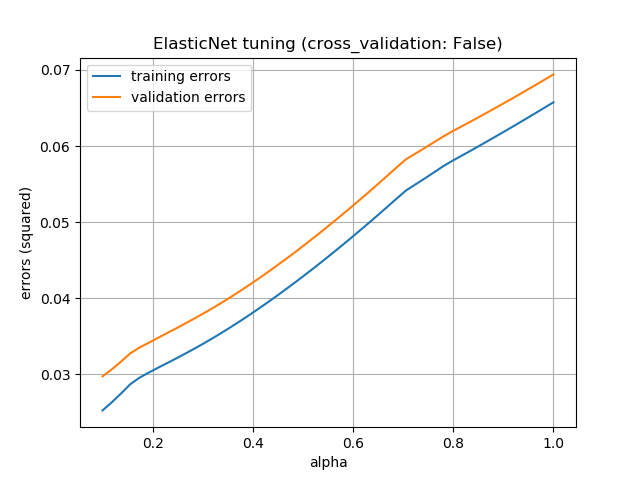
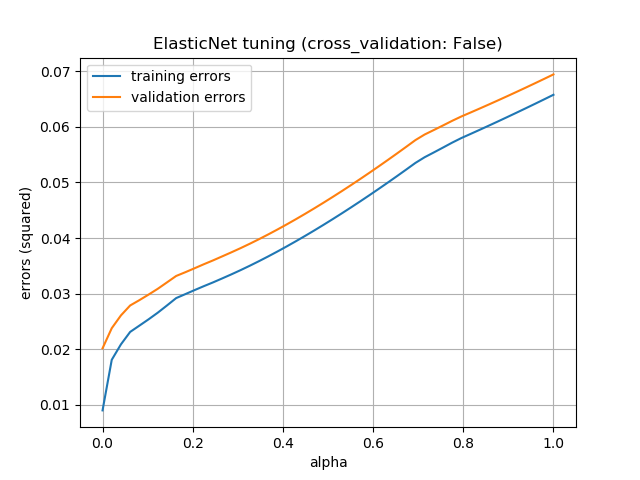
added internal cross validation in stacking implementation

diff --git a/code/main.py b/code/main.py
@@ -18,6 +18,7 @@ from scipy.special import boxcox1p
 from scipy.stats import boxcox_normmax
 
 from sklearn.preprocessing import LabelEncoder
+from sklearn.pipeline import make_pipeline
 
 ##ANOVA
 from sklearn.feature_selection import SelectKBest
@@ -26,7 +27,7 @@ from sklearn import preprocessing
 
 #XGBoost
 from sklearn.model_selection import train_test_split
-from sklearn.preprocessing import Imputer
+from sklearn.preprocessing import Imputer, RobustScaler
 from xgboost import XGBRegressor
 from sklearn.metrics import mean_absolute_error
 
@@ -35,7 +36,7 @@ import torch.nn as nn
 import torch.optim as optim
 
 from sklearn.ensemble import RandomForestRegressor
-from models import NeuralNetRegressor, neuralNetHyperparamTuning, AveragingRegressor, StackingRegressor
+from models import NeuralNetRegressor, neuralNetHyperparamTuning, AveragingRegressor, StackingRegressor, StackingAveragedModels
 import lightgbm as lgb
 
 if __name__ == "__main__":
@@ -487,10 +488,10 @@ if __name__ == "__main__":
 
 
     elif question == "base_models":
+        dataset_name = 'preprocessed'
         # dataset_name = 'sig_features'
-        # dataset_name = 'preprocessed'
         # dataset_name = 'anova_features'
-        dataset_name = 'xgb_features'
+        # dataset_name = 'xgb_features'
 
         # read preprocessed data as pandas dataframe
         df = pd.read_csv('../data/train_{}.csv'.format(dataset_name))
@@ -500,8 +501,8 @@ if __name__ == "__main__":
 
         n, d = np.shape(X)
 
-        err_type = 'rmsle'  # 'abs', 'squared', 'rmsle'
-        cross_val = True 
+        err_type = 'rmse'  # 'abs', 'squared', 'rmsle'
+        cross_val = True
         valid_size = 0.25
         n_splits = 4
         shuffle_data = True
@@ -509,13 +510,22 @@ if __name__ == "__main__":
         ## base models
         # test Lasso model
         print("\nbase model: Lasso (L2-loss with L1-reg)")
-        model = Lasso(alpha=0.5, random_state=2)
+        model = Lasso(alpha=0.0005, random_state=1)
         err_tr, err_va = evaluate_model(model, X, y, cross_val=cross_val, valid_size=valid_size, shuffle_data=shuffle_data, 
                                         n_splits=n_splits, verbose=True, err_type=err_type)
 
+        # # doesn't really make a difference
+        # print("\nLasso robustscaler")
+        # model = make_pipeline(RobustScaler(), Lasso(alpha=0.0005, random_state=1))
+        # err_tr, err_va = evaluate_model(model, X, y, cross_val=cross_val, valid_size=valid_size, shuffle_data=shuffle_data, 
+        #                                 n_splits=n_splits, verbose=True, err_type=err_type)
+
+
         # ElasticNet
         print("\nbase model: ElasticNet (L2-loss with L1-reg and L2-reg)")
-        model = ElasticNet(alpha=0.5, l1_ratio=0.5, random_state=2)
+        # model = ElasticNet(alpha=1e-4, l1_ratio=0.5, random_state=2)
+        model = make_pipeline(RobustScaler(), ElasticNet(alpha=0.0005, l1_ratio=0.9, random_state=3))
+
         err_tr, err_va = evaluate_model(model, X, y, cross_val=cross_val, valid_size=valid_size, shuffle_data=shuffle_data, 
                                         n_splits=n_splits, verbose=True, err_type=err_type)
         # Ridge
@@ -611,10 +621,10 @@ if __name__ == "__main__":
 
 
     elif question == "averaging":
+        dataset_name = 'preprocessed'
         # dataset_name = 'sig_features'
-        # dataset_name = 'preprocessed'
         # dataset_name = 'anova_features'
-        dataset_name = 'xgb_features'
+        # dataset_name = 'xgb_features'
 
         # read preprocessed data as pandas dataframe
         df = pd.read_csv('../data/train_{}.csv'.format(dataset_name))
@@ -623,8 +633,9 @@ if __name__ == "__main__":
         y = df['SalePrice'].values
 
         n, d = np.shape(X)
+        print("num features: {}".format(d))
 
-        err_type = 'rmsle'  # 'abs', 'squared', 'rmsle'
+        err_type = 'rmse'  # 'abs', 'squared', 'rmsle'
         cross_val = True 
         valid_size = 0.25
         n_splits = 4
@@ -649,8 +660,8 @@ if __name__ == "__main__":
                                         n_splits=n_splits, verbose=True, err_type=err_type)
 
     elif question == "stacking":
-        # dataset_name = 'sig_features'
         # dataset_name = 'preprocessed'
+        # dataset_name = 'sig_features'
         # dataset_name = 'anova_features'
         dataset_name = 'xgb_features'
 
@@ -661,16 +672,17 @@ if __name__ == "__main__":
         y = df['SalePrice'].values
 
         n, d = np.shape(X)
+        print("num features: {}".format(d))
 
-        err_type = 'rmsle'  # 'abs', 'squared', 'rmsle'
+        err_type = 'rmse'  # 'abs', 'squared', 'rmsle'
         cross_val = True 
         valid_size = 0.25
         n_splits = 4
         shuffle_data = True
 
         base_models = []
-        base_models.append(Lasso(alpha=0.5, random_state=None))
-        base_models.append(ElasticNet(alpha=0.5, l1_ratio=0.5))
+        base_models.append(Lasso(alpha=0.0005, random_state=None))
+        base_models.append(ElasticNet(alpha=0.0005, l1_ratio=0.9))
         base_models.append(Ridge(alpha=1))
         base_models.append(KNeighborsRegressor(n_neighbors=10))
         base_models.append(lgb.LGBMRegressor(objective='regression', num_leaves=25, learning_rate=0.05))
@@ -681,13 +693,19 @@ if __name__ == "__main__":
         #                             lammy=1e-5, batch_size=32, epochs=100, 
         #                             num_workers=6, verbose=False)
 
-        # meta_model = Lasso(alpha=0.1) 
+        meta_model = Lasso(alpha=1e-4) 
         # meta_model = ElasticNet(alpha=1, l1_ratio=0.5)
-        meta_model = Ridge(alpha=1)
+        # meta_model = Ridge(alpha=1)
 
-        stacking_model = StackingRegressor(base_models, meta_model)
+        stacking_model = StackingRegressor(base_models, meta_model, n_folds=5)
         err_tr, err_va = evaluate_model(stacking_model, X, y, cross_val=cross_val, valid_size=valid_size, shuffle_data=shuffle_data, 
                                         n_splits=n_splits, verbose=True, err_type=err_type)
+
+        # print("Kaggle implementation")
+        # stacking_model = StackingAveragedModels(base_models, meta_model, n_folds=5)
+        # err_tr, err_va = evaluate_model(stacking_model, X, y, cross_val=cross_val, valid_size=valid_size, shuffle_data=shuffle_data, 
+        #                                 n_splits=n_splits, verbose=True, err_type=err_type)
+
 
     elif question == "base_model_tuning":
         # dataset_name = 'sig_features'
@@ -713,7 +731,7 @@ if __name__ == "__main__":
         
         # tunable vars
         # alphas = np.linspace(0.1, 5, num=num_vars)
-        alphas = np.linspace(0.1, 1, num=num_vars)
+        alphas = np.linspace(1e-4, 1, num=num_vars)
         n_neighbors = np.linspace(1, 50, num=num_vars, dtype=int)
         num_leaves = np.linspace(5, 200, num=num_vars, dtype=int)
         max_depths = np.linspace(5, 100, num=num_vars, dtype=int)

diff --git a/code/models.py b/code/models.py
@@ -11,6 +11,10 @@ from utils import evaluate_model
 import matplotlib.pyplot as plt
 import os
 
+from sklearn.base import BaseEstimator, TransformerMixin, RegressorMixin, clone
+from sklearn.model_selection import KFold
+
+
 # use pytorch to implement neural network
 try:
     import torch
@@ -311,7 +315,7 @@ class AveragingRegressor():
 class StackingRegressor():
     """ a simple ensemble stacking class """
 
-    def __init__(self, base_models, meta_model):
+    def __init__(self, base_models, meta_model, n_folds=5):
         """ constructor
         
         Arguments:
@@ -321,6 +325,8 @@ class StackingRegressor():
 
         self.base_models = base_models
         self.meta_model = meta_model
+        self.n_folds = n_folds
+        self.base_model_instances = [[] for _ in base_models]
         
     def fit(self, X_train, y_train):
         """ train stacking regressor
@@ -330,8 +336,7 @@ class StackingRegressor():
             y_train {ndarray} -- y training
         """
 
-        self._base_model_fit(X_train, y_train)
-        Z_train = self._base_model_predict(X_train)
+        Z_train = self._base_model_train(X_train, y_train)
 
         self.meta_model.fit(Z_train, y_train)
 
@@ -350,7 +355,7 @@ class StackingRegressor():
         
         return yhats
 
-    def _base_model_fit(self, X_train, y_train):
+    def _base_model_train(self, X, y):
         """ helper function to train the base models
         
         Arguments:
@@ -358,8 +363,26 @@ class StackingRegressor():
             y_train {ndarray} -- y training
         """
 
-        for model in self.base_models:
-            model.fit(X_train, y_train)
+        n, d = np.shape(X)
+
+        # internal cross validation for training
+        kf = KFold(n_splits=self.n_folds, shuffle=True, random_state=None)
+        Z = np.empty((n, len(self.base_models)))
+
+        for i, model in enumerate(self.base_models, 0):
+            
+            Z_col = np.empty(n)
+            for train_index, valid_index in kf.split(X, y):
+                model_instance = clone(model)
+                model_instance.fit(X[train_index], y[train_index])
+                Z_instance = model_instance.predict(X[valid_index])
+                self.base_model_instances[i].append(model_instance)
+
+                Z_col[valid_index] = Z_instance
+
+            Z[:, i] = Z_col
+
+        return Z
 
     def _base_model_predict(self, X):
         """ helper function to get prediction from base models
@@ -370,9 +393,50 @@ class StackingRegressor():
         Returns:
             {ndarray} -- predictions
         """
+        n, d = np.shape(X)
+        Z = np.empty((n, len(self.base_models)))
+        
+        for i, instances in enumerate(self.base_model_instances, 0):
+            Z_col = np.mean([instance.predict(X) for instance in instances], axis=0)
+            Z[:, i] = Z_col
 
-        Z = np.column_stack([model.predict(X) for model in self.base_models])
         return Z
+
+# Kaggle implementation
+class StackingAveragedModels(BaseEstimator, RegressorMixin, TransformerMixin):
+    def __init__(self, base_models, meta_model, n_folds=5):
+        self.base_models = base_models
+        self.meta_model = meta_model
+        self.n_folds = n_folds
+
+    # We again fit the data on clones of the original models
+    def fit(self, X, y):
+        self.base_models_ = [list() for x in self.base_models]
+        self.meta_model_ = clone(self.meta_model)
+        kfold = KFold(n_splits=self.n_folds, shuffle=True, random_state=156)
+        
+        # Train cloned base models then create out-of-fold predictions
+        # that are needed to train the cloned meta-model
+        out_of_fold_predictions = np.zeros((X.shape[0], len(self.base_models)))
+        for i, model in enumerate(self.base_models):
+            for train_index, holdout_index in kfold.split(X, y):
+                instance = clone(model)
+                self.base_models_[i].append(instance)
+                instance.fit(X[train_index], y[train_index])
+                y_pred = instance.predict(X[holdout_index])
+                out_of_fold_predictions[holdout_index, i] = y_pred
+                
+        # Now train the cloned  meta-model using the out-of-fold predictions as new feature
+        self.meta_model_.fit(out_of_fold_predictions, y)
+        return self
+
+    #Do the predictions of all base models on the test data and use the averaged predictions as 
+    #meta-features for the final prediction which is done by the meta-model
+    def predict(self, X):
+        meta_features = np.column_stack([
+            np.column_stack([model.predict(X) for model in base_models]).mean(axis=1)
+            for base_models in self.base_models_ ])
+        return self.meta_model_.predict(meta_features)
 
 def neuralNetHyperparamTuning(  hyperparam, hyperparam_vals, X, y, 
                                 lr=1e-3, momentum=0.9, lammy=1e-5, batch_size=32, 

diff --git a/code/utils.py b/code/utils.py
@@ -44,7 +44,7 @@ def standardize_dataset(data, data_valid, include_y_int=True):
 
     return X, y, X_valid, y_valid
 
-def evaluate_model(model, X, y, cross_val=False, valid_size=0.1, n_splits=10, shuffle_data=True, random_state=None, verbose=False, err_type='abs'):
+def evaluate_model(model, X, y, cross_val=False, valid_size=0.2, n_splits=5, shuffle_data=True, random_state=None, verbose=False, err_type='rmse'):
     """ Evaluate model by splitting dataset into training and validation 
     sets and report both training and validation errors
     
@@ -105,6 +105,10 @@ def evaluate_model(model, X, y, cross_val=False, valid_size=0.1, n_splits=10, sh
         print("training error: {0:.6g}".format(err_tr))
         print("validation error: {0:.6g}".format(err_va))
 
+    # kf = KFold(n_splits=n_splits, shuffle=shuffle_data).get_n_splits(X)
+    # rmse = np.sqrt(-cross_val_score(model, X, y, scoring='neg_mean_squared_error', cv=kf))
+    # print("rmse mean: {}".format(rmse.mean()))
+
     return err_tr, err_va
 
 def _evaluate(model, X_train, y_train, X_valid=None, y_valid=None, err_type='abs'):
@@ -135,6 +139,8 @@ def _evaluate(model, X_train, y_train, X_valid=None, y_valid=None, err_type='abs
         err_tr = mean_absolute_error(y_train, y_hat)
     elif err_type == 'rmsle':
         err_tr = np.sqrt(mean_squared_log_error(y_train, y_hat))
+    elif err_type == 'rmse':
+        err_tr = np.sqrt(mean_squared_error(y_train, y_hat))
 
     if X_valid is not None and y_valid is not None:
         y_hat = model.predict(X_valid)
@@ -145,7 +151,11 @@ def _evaluate(model, X_train, y_train, X_valid=None, y_valid=None, err_type='abs
             err_va = mean_absolute_error(y_valid, y_hat)
         elif err_type == 'rmsle':
             err_va = np.sqrt(mean_squared_log_error(y_valid, y_hat))
+        elif err_type == 'rmse':
+            err_va = np.sqrt(mean_squared_error(y_valid, y_hat))
     else:
         err_va = None
 
     return err_tr, err_va
+
+

diff --git a/doc/Experiment_result_stacking.md b/doc/Experiment_result_stacking.md
@@ -1,0 +1,43 @@
+#
+## preprocessed
+```python
+training error: 0.0942197
+validation error: 0.105615
+
+Kaggle implementation
+training error: 0.0854358
+validation error: 0.122935
+```
+
+## sig_features
+
+```python
+training error: 0.104637
+validation error: 0.11138
+
+Kaggle implementation
+training error: 0.101775
+validation error: 0.119572
+```
+
+## anova_features
+
+```python
+training error: 0.1101
+validation error: 0.122596
+
+Kaggle implementation
+training error: 0.103227
+validation error: 0.139682
+```
+
+## xgb_features
+
+```python
+training error: 0.103657
+validation error: 0.114712
+
+Kaggle implementation
+training error: 0.0994313
+validation error: 0.126571
+```
